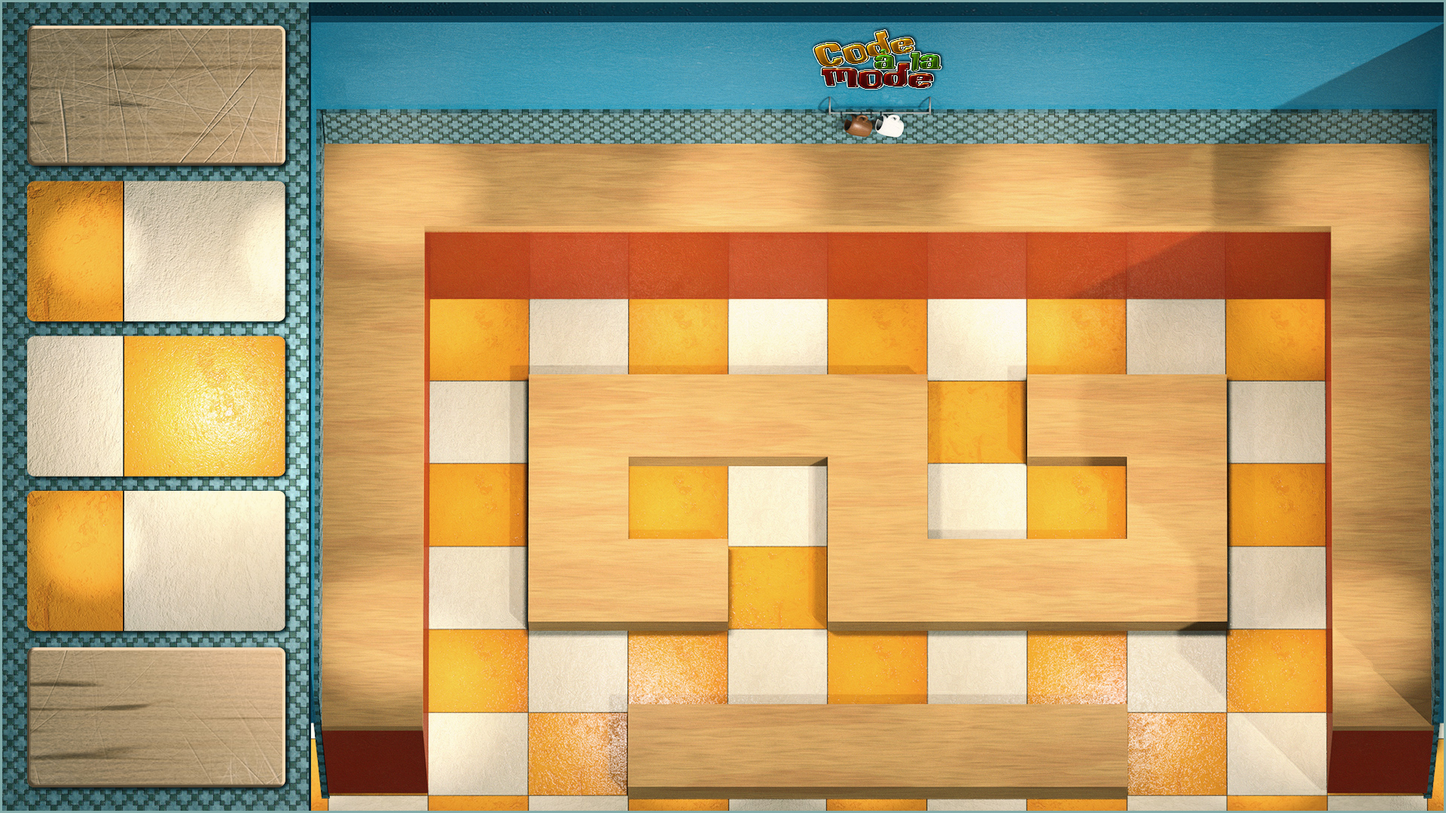
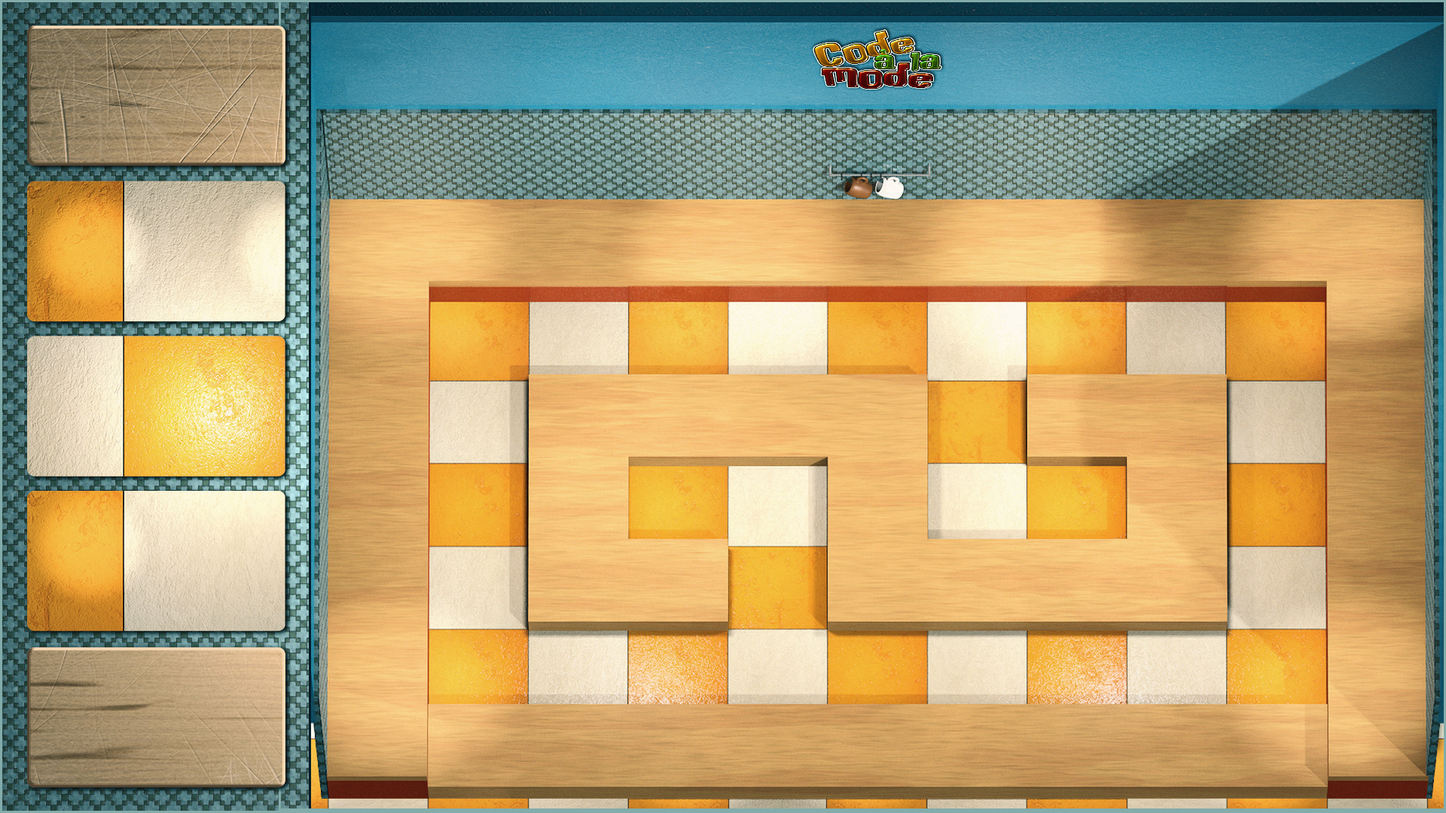
Update tooltips to different sizings (still not perfect)

Changed region(s): [[0.1875, 0.0611, 1.0, 1.0]]

diff --git a/src/main/resources/view/modules/TooltipModule.js b/src/main/resources/view/modules/TooltipModule.js
@@ -61,17 +61,18 @@ function getMouseMoveFunc(tooltip, container, module) {
 
             if (showing.length) {
 
-                var width = 1910-590;
-                var height = 840;
-                var x0 = 590;
-                var y0 = 10;
+                var width = 1910-430;
+                var height = 1080-264;
+                var x0 = 430;
+                var y0 = 264;
 
                 var columns = 11;
                 var rows = 7;
-                var cellsize = width / columns;
+//                var cellsize = width / columns;
+                var cellsize = 132; // TODO : Variable cell size & hardcoded cellX/Y calcs
                 var scale = height / (cellsize * (rows ))
-                var cellX = (Math.floor((point.x - x0) / cellsize / scale));
-                var cellY = (Math.floor((point.y - y0) / cellsize / scale) );
+                var cellX = (Math.floor((point.x - x0) / 132));
+                var cellY = (Math.floor((point.y - y0) / 110));
 
                 const tooltipBlocks = [];
                 var found = false;
@@ -157,10 +158,10 @@ export class TooltipModule {
         };
         this.lastProgress = 1;
         this.lastFrame = 0;
-        this.width = 1320;
-        this.height = 840;
-        this.x0 = 570;
-        this.y0 = 10;
+        this.width = 1910 - 430;
+        this.height = 1080-264;
+        this.x0 = 430;
+        this.y0 = 264;
     }
 
     static get name() {

diff --git a/src/main/kotlin/com/codingame/game/view/BoardView.kt b/src/main/kotlin/com/codingame/game/view/BoardView.kt
@@ -91,7 +91,7 @@ class BoardView(baseBoard: Board, matchPlayers: List<Player>) {
               is ChoppingBoard -> image = "board.png"
               is GeneralCrate -> image = "bowl.png"
               is Oven -> {
-                image = if (cell.y == 0) "oven_top.png" else if (cell.x == 0) "oven_left.png" else if (cell.x == 10) "oven_right.png" else "oven.png"
+                image = if (cell.x == 0) "oven_left.png" else if (cell.x == 10) "oven_right.png" else "oven_top.png"
 //                baseHeight = if (cell.x == 0 || cell.x == 10) 131 else 99
 //                baseWidth = if (cell.x == 0 || cell.x == 10) 140 else 132
                 baseHeight = cellHeight
@@ -233,11 +233,11 @@ class BoardView(baseBoard: Board, matchPlayers: List<Player>) {
       graphicEntityModule.createSprite().apply {
         anchorX = 0.0
         anchorY = 0.0
-        baseHeight = 35
-        baseWidth = 45
+        baseHeight = 40
+        baseWidth = 50
         zIndex = 50 + i
-        x = 15 + (i % 2) * 45
-        y = if (i < 2) 10 else 45
+        x = 20 + (i % 2) * 52
+        y = if (i < 2) 30 else 70
         isVisible = false
       }
     }

diff --git a/src/main/kotlin/com/codingame/game/BoardBuilding.kt b/src/main/kotlin/com/codingame/game/BoardBuilding.kt
@@ -42,7 +42,7 @@ val boardLayout2 = listOf(
 /* 3 */  "*.*..*..*.*",  // 3
 /* 4 */  "*.LA.MODE.*",  // 4
 /* 5 */  "*.........*",  // 5
-/* 6 */  "*..*****..*"   // 6
+/* 6 */  "***********"   // 6
 //        ABCDEFGHIJK
 )
 
@@ -51,7 +51,7 @@ val equipment2 = listOf(
     "A1", "A2", "A3", "A4", "A5",
     "K1", "K2", "K3", "K4", "K5",
 //    "H2", "C3", "F3", "I3",
-    "A6", "D6", "E6"       ,"G6", "H6", "K6"
+    "A6", "B6", "C6", "D6", "E6"       ,"G6", "H6", "I6", "J6", "K6"
     )
 
 fun buildEmptyBoard(): Board = Board(boardLayout2)
